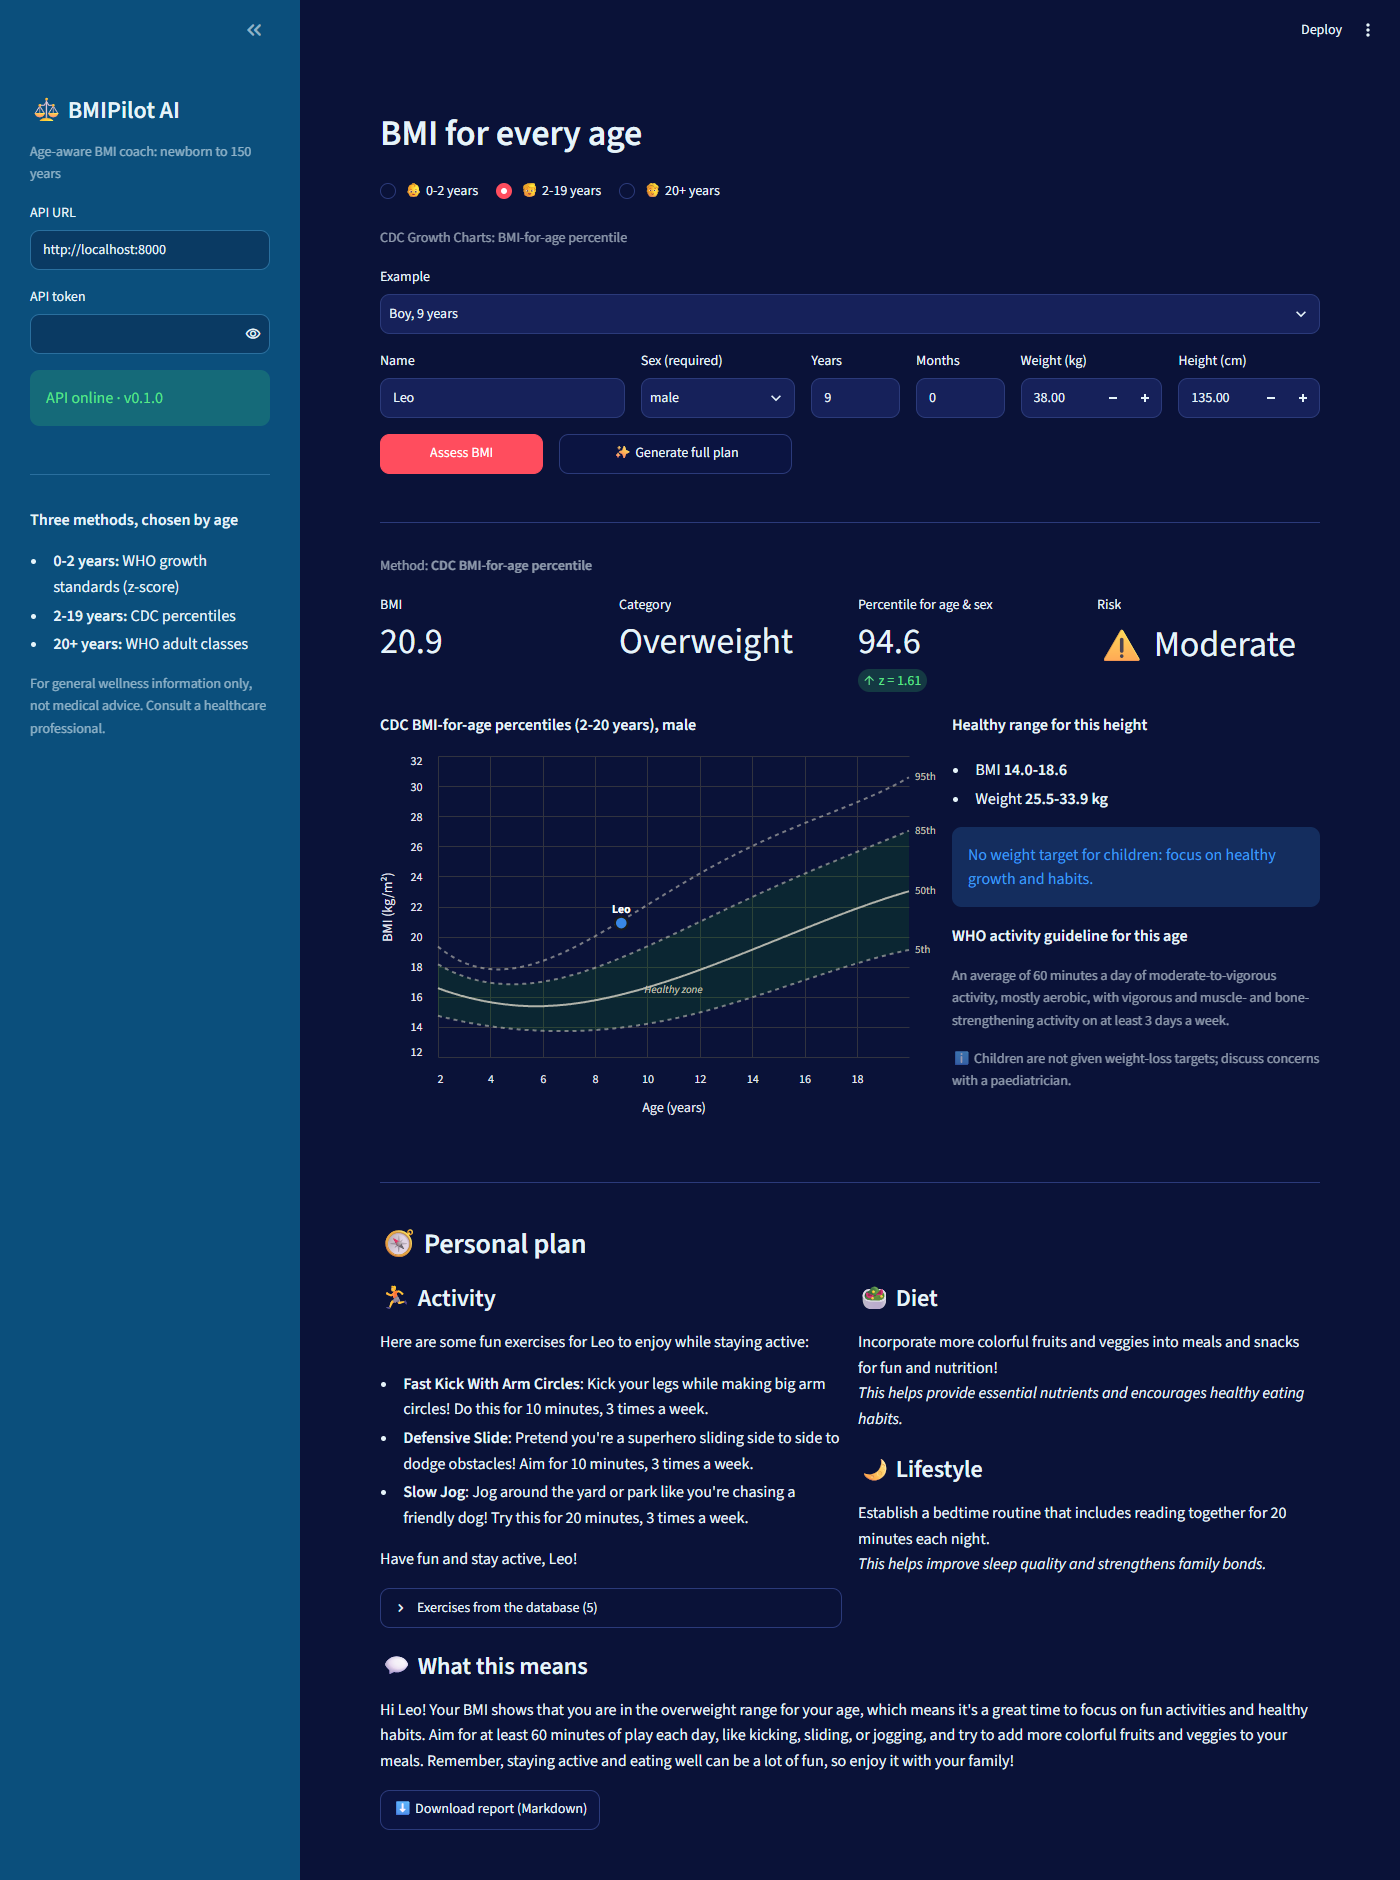
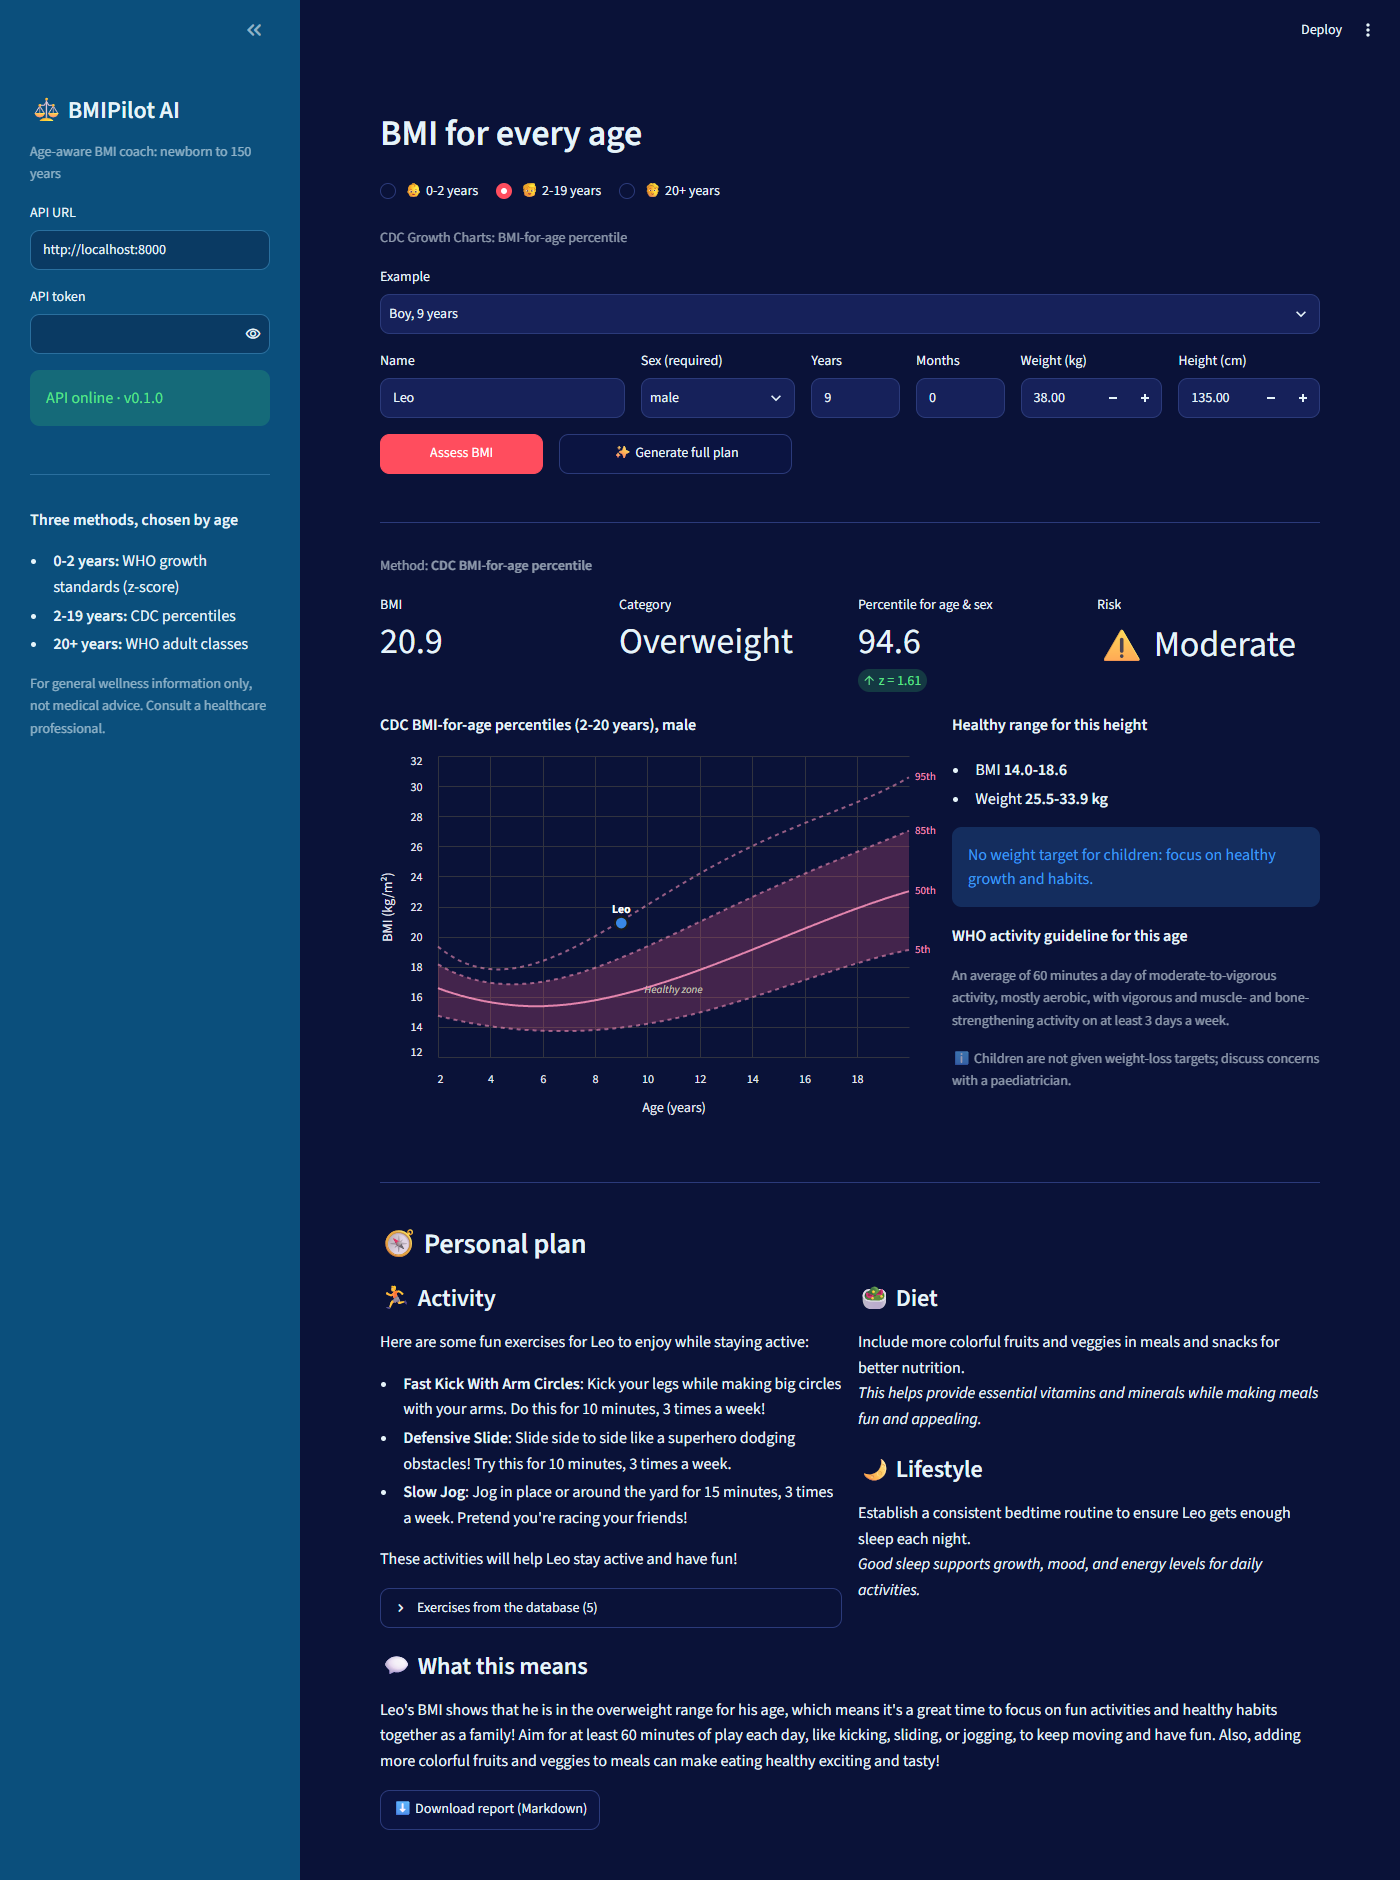
Dashboard: pink/magenta growth curves and new dark-theme screenshots

diff --git a/dashboard/app.py b/dashboard/app.py
@@ -85,7 +85,9 @@ INK_STRONG = "#ffffff" if DARK else "#0b0b0b"
 SURFACE = "#1a1a19" if DARK else "#fcfcfb"
 POINT = "#3987e5" if DARK else "#2a78d6"  # the person: series slot 1
 NEUTRAL_MID = "#383835" if DARK else "#f0efec"
-HEALTHY_ZONE = "#0ca30c"  # status "good"; always paired with a text label
+CURVE = "#f48fb8" if DARK else "#b8336a"  # pink/magenta reference curves
+HEALTHY_ZONE = "#d55181" if DARK else "#e87ba4"  # magenta healthy zone, text-labelled
+ZONE_OPACITY = 0.28 if DARK else 0.18
 # Adult scale is diverging around "Normal": blue arm (under), red arm (over).
 ADULT_BANDS = [
     ("Severe thinness", 12.0, 16.0, "#256abf" if DARK else "#6da7ec"),
@@ -159,7 +161,7 @@ def growth_chart(group: str, profile: dict[str, Any], a: dict[str, Any]) -> alt.
     y = alt.Y("bmi:Q", title="BMI (kg/m²)", scale=alt.Scale(zero=False))
     zone = (
         alt.Chart(df)
-        .mark_area(color=HEALTHY_ZONE, opacity=0.14)
+        .mark_area(color=HEALTHY_ZONE, opacity=ZONE_OPACITY)
         .encode(x=x, y=alt.Y(f"{healthy[0]}:Q"), y2=f"{healthy[1]}:Q")
     )
     first = df.iloc[[len(df) // 2]].assign(bmi=lambda d: (d[healthy[0]] + d[healthy[1]]) / 2)
@@ -170,7 +172,7 @@ def growth_chart(group: str, profile: dict[str, Any], a: dict[str, Any]) -> alt.
     )
     lines = (
         alt.Chart(long)
-        .mark_line(strokeWidth=2, color=INK)
+        .mark_line(strokeWidth=2, color=CURVE)
         .encode(
             x=x,
             y=y,
@@ -187,7 +189,7 @@ def growth_chart(group: str, profile: dict[str, Any], a: dict[str, Any]) -> alt.
     last = long[long.age_years == long.age_years.max()]
     labels = (
         alt.Chart(last)
-        .mark_text(align="left", dx=6, fontSize=11, color=INK)
+        .mark_text(align="left", dx=6, fontSize=11, color=CURVE)
         .encode(x=x, y=y, text="curve:N")
     )
     me = pd.DataFrame(
